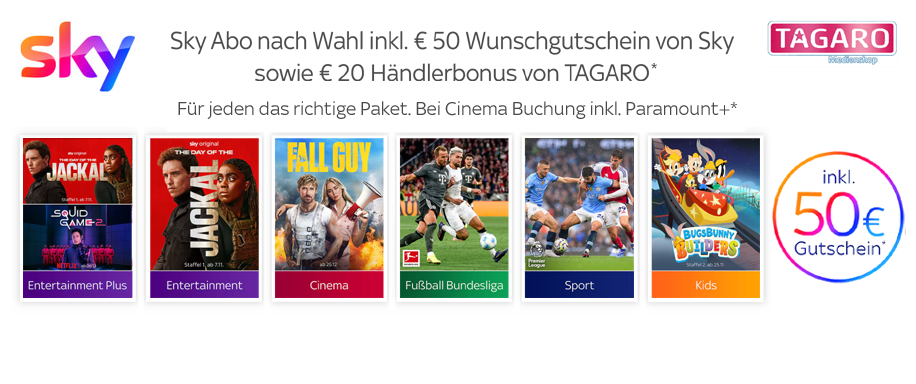
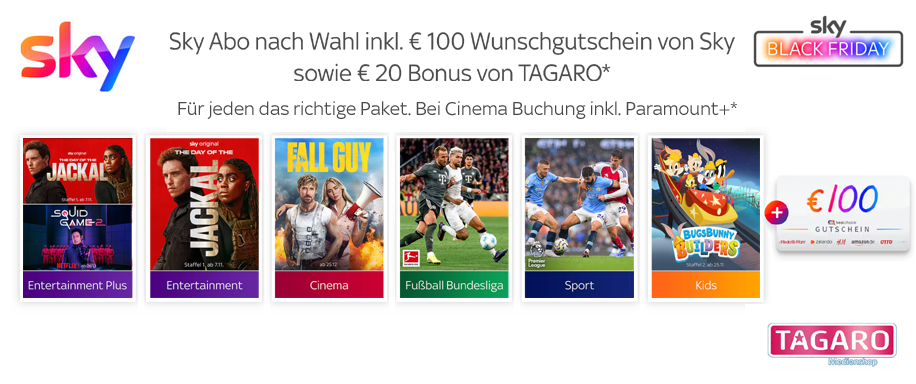
change 50 to 100 black friday

diff --git a/packages/components/templates/section/vertragsinfomationen_template.svelte b/packages/components/templates/section/vertragsinfomationen_template.svelte
@@ -224,32 +224,20 @@
 		</ul>
 	</div>
 	<div>
-		<h3 class={title_classes}>Ersparnis:</h3>
-		<p>
-			Die Ersparnis bis zu {@html get_savings_string([
-				'entertainment',
-				'cinema',
-				'bundesliga',
-				'sport'
-			])} ergibt sich aus dem rabattierten Sky Jahresabonnementspreis im Vergleich zum Sky Standard-Jahresabonnementspreis.
-		</p>
-	</div>
-	<div>
-		<h3 class={title_classes}>50 € Wunschgutschein:</h3>
+		<h3 class={title_classes}>100 € Wunschgutschein von Sky (Black Friday):</h3>
 		<p>
 			Aktion gilt nur für Neukunden bei Buchung der folgenden Paket-Kombinationen: Sky Entertainment
-			Plus bzw. Sky Entertainment Plus + Sky Cinema bzw. Sky Entertainment + Sky Sport + Sky Cinema
-			+ Sky Fußball-Bundesliga bzw. Sky Entertainment Plus + Sky Sport + Sky Cinema + Sky
-			Fußball-Bundesliga. Jeder Kunde erhält einen Gutschein von Cadooz in Höhe von € 50.Der
-			Gutschein wird nach Ablauf der Widerrufsfrist und positiver Bonitätsprüfung sowie des ersten
-			positiven Zahlungseingangs bei Sky, in Form eines digitalen Gutscheincodes ca. 8 Wochen nach
-			Abonnementvertragsabschluss per E-Mail versendet. Mit diesem Code kann über sky.cadooz.com ein
-			Gutschein bei einem von Cadooz gelisteten Anbieter (z.B. Amazon, Douglas, MediaMarkt, Zalando
-			u. v. m.) im Wert von € 50 aktiviert werden. Der Versand der Gutscheine erfolgt durch die
-			Firma CadoozGmbH. Der Sky Kunde erklärt sich damit einverstanden, dass die Sky Deutschland
-			Fernsehen GmbH & Co. KG zur Abwicklung (Versand des Gutscheins) ausschließlich Kontaktdaten
-			(Anrede, Vor- und Nachname, E-Mail-Adresse) an die CadoozGmbH übermittelt. Barauszahlung sowie
-			Umtausch ausgeschlossen.
+			+ Sky Sport + Sky Cinema + Sky Fußball-Bundesliga bzw. Sky Entertainment Plus + Sky Sport +
+			Sky Cinema + Sky Fußball-Bundesliga. Jeder Kunde erhält einen Gutschein von Cadooz in Höhe von
+			€ 100.Der Gutschein wird nach Ablauf der Widerrufsfrist und positiver Bonitätsprüfung sowie
+			des ersten positiven Zahlungseingangs bei Sky, in Form eines digitalen Gutscheincodes ca. 8
+			Wochen nach Abonnementvertragsabschluss per E-Mail versendet. Mit diesem Code kann über
+			sky.cadooz.com ein Gutschein bei einem von Cadooz gelisteten Anbieter (z.B. Amazon, Douglas,
+			MediaMarkt, Zalando u. v. m.) im Wert von € 100 aktiviert werden. Der Versand der Gutscheine
+			erfolgt durch die Firma Cadooz GmbH. Der Sky Kunde erklärt sich damit einverstanden, dass die
+			Sky Deutschland Fernsehen GmbH & Co. KG zur Abwicklung (Versand des Gutscheins) ausschließlich
+			Kontaktdaten (Anrede, Vor- und Nachname, E-Mail-Adresse) an die Cadooz GmbH übermittelt.
+			Barauszahlung sowie Umtausch ausgeschlossen.
 		</p>
 	</div>
 	<div>

diff --git a/apps/web/src/routes/main_showcase.svelte b/apps/web/src/routes/main_showcase.svelte
@@ -9,7 +9,7 @@
 	redirect_url={'/angebote/entertainmentplus-cinema-sport-bundesliga'}
 	hide_left={true}
 	points={[
-		`€ 50 Wunschgutschein von Sky nach ca. 8 Wochen per E-Mail. In Frage kommende Paketkombinationen beachten.<br>Die Aktion gilt bis zum 26.11.2024*`,
+		`€ 100 Wunschgutschein von Sky nach ca. 8 Wochen per E-Mail. In Frage kommende Paketkombinationen beachten.<br>Die Aktion gilt bis zum 26.11.2024*`,
 		`${bonus_string()} Bonus von TAGARO nach ca. 8 Wochen auf dein Konto*`,
 		'Nur im Web: € 0 statt € 29 einmalige Gebühr*',
 		'Zusätzlich 500 PAYBACK Basis-Punkte. Oder über die PAYBACK App oder online weitere Punkte',
@@ -17,16 +17,16 @@
 	]}
 	top_margin={20}
 >
-	<span slot="title">Der beste TV-Deal des Jahres, jetzt mit Prämie über TAGARO</span>
+	<span slot="title">Sky Black Friday Angebote mit € 100 Wunschgutschein + € 20 Bonus on top </span>
 	<span slot="subtitle0">
-		Sky über TAGARO abonnieren und € 20 Bonus UND € 50 Wunschgutschein von Sky erhalten*
+		Sky über TAGARO abonnieren und € 20 Bonus UND € 100 Wunschgutschein von Sky erhalten*
 	</span>
 	<span slot="subtitle1">
-		Bei Abschluss vieler Paketkombinationen z.B. Entertainment Plus ab € 15, gibt es von Sky einen €
-		50 Gutschein und von TAGARO einen € 20 Bonus. Die Aktion gilt bis zum 26.11.2024. Bitte in
-		Frage kommende Kombinationen beachten*
+		Bei Abschluss vieler Paketkombinationen, gibt es von Sky einen € 100 Wunschgutschein und von
 	</span>
-	<span slot="subtitle2"></span>
+	<span slot="subtitle2">
+		TAGARO einen € 20 Bonus. Bitte in Frage kommende Kombinationen beachten*
+	</span>
 </ShowcaseTemplate>
 
 <!-- <ShowcaseTemplate

diff --git a/packages/components/complete/package_table.svelte b/packages/components/complete/package_table.svelte
@@ -1,5 +1,5 @@
 <script lang="ts">
-	import { get_offer_note, get_statt_price_string, get_price_string } from 'asset_library/prices';
+	import { get_price_string } from 'asset_library/prices';
 	import {
 		max_combination_length,
 		base_premium_package_combinations,
@@ -12,7 +12,7 @@
 	import { dev } from '$app/environment';
 	import { make_url } from 'frontend/url';
 	import { typed_entries } from 'functional-utilities';
-	import { is_wunschgutschein_offer } from 'asset_library/wunschgutschein_matcher'; 
+	import { is_wunschgutschein_offer } from 'asset_library/wunschgutschein_matcher';
 
 	const col_amount = max_combination_length + 1;
 
@@ -64,7 +64,7 @@
 								class="nowrap gradient_text red"
 								style="font-size:15px;padding-bottom: 15px;letter-spacing:.2px;"
 							>
-								<b>✓ Inkl. € 50 Wunschgutschein </b>
+								<b>✓ Inkl. € 100 Wunschgutschein </b>
 							</span>
 						{/if}
 						<p style="line-height: 23px;color:#ff4444;font-size:20px;">

diff --git a/packages/asset_library/wunschgutschein_matcher.ts b/packages/asset_library/wunschgutschein_matcher.ts
@@ -1,13 +1,7 @@
-import { asset_id } from "./asset_types";
+import type { asset_id } from "./asset_types";
 
 export function is_wunschgutschein_offer(package_ids: asset_id[]) {
-    if (package_ids.includes("sport") || package_ids.includes("bundesliga")) {
-        if (package_ids.length >= 4) {
-            return true
-        }
-    }
-
-    if (package_ids.includes("entertainmentplus")) {
+    if (package_ids.length >= 4) {
         return true
     }
 

diff --git a/packages/components/layout/wrapping_elements.svelte b/packages/components/layout/wrapping_elements.svelte
@@ -170,7 +170,7 @@
 									<li>✓ Cinema inkl. Paramount+</li>
 								{/if}
 								{#if is_wunschgutschein_offer(item.package_ids)}
-									<li>✓ € 50 Wunschgutschein* (z.B. für Amazon, Zalando, MediaMarkt u.v.m.)</li>
+									<li>✓ € 100 Wunschgutschein* (z.B. für Amazon, Zalando, MediaMarkt u.v.m.)</li>
 								{/if}
 								{#if bonus !== 0}
 									<li>✓ {@html bonus_string()} Bonus von uns nach ca. 8 Wochen</li>

diff --git a/packages/components/templates/element/package_template.svelte b/packages/components/templates/element/package_template.svelte
@@ -45,7 +45,7 @@
 		<div class="image flex flex-col items-center">
 			<AssetImage ids={price_asset_ids} {animated} />
 			{#if is_wunschgutschein_offer(price_asset_ids) && !ebay_version}
-				<img src={make_url('/images/badges/50gutschein2.png', dev)} alt="" class="w-32 mt-4" />
+				<img src={make_url('/images/badges/100gutschein.png', dev)} alt="" class="w-32 mt-4" />
 			{/if}
 		</div>
 

diff --git a/packages/asset_library/assets/packages.ts b/packages/asset_library/assets/packages.ts
@@ -215,6 +215,9 @@ export const showcased_combinations = [
 
 	['entertainmentplus'],
 	['entertainmentplus', 'cinema'],
+	['entertainmentplus', 'sport'],
+	['entertainmentplus', 'bundesliga'],
+	['entertainmentplus', 'sport', 'bundesliga'],
 	['entertainmentplus', 'sport', 'cinema', 'bundesliga']
 ] satisfies package_id[][];
 

diff --git a/apps/web/src/routes/showcase_template.svelte b/apps/web/src/routes/showcase_template.svelte
@@ -35,7 +35,7 @@
 		}
 	];
 
-	const left_badges = ['/images/badges/50gutschein.png'] as const;
+	const left_badges = ['/images/badges/100gutschein.png'] as const;
 	const showcase_assets = [
 		'entertainmentplus',
 		'cinema',
